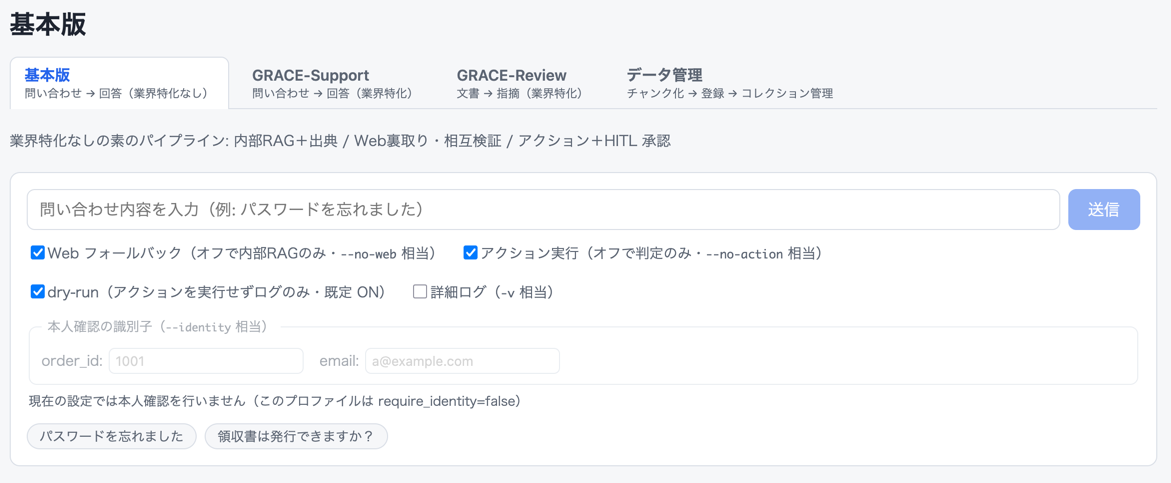
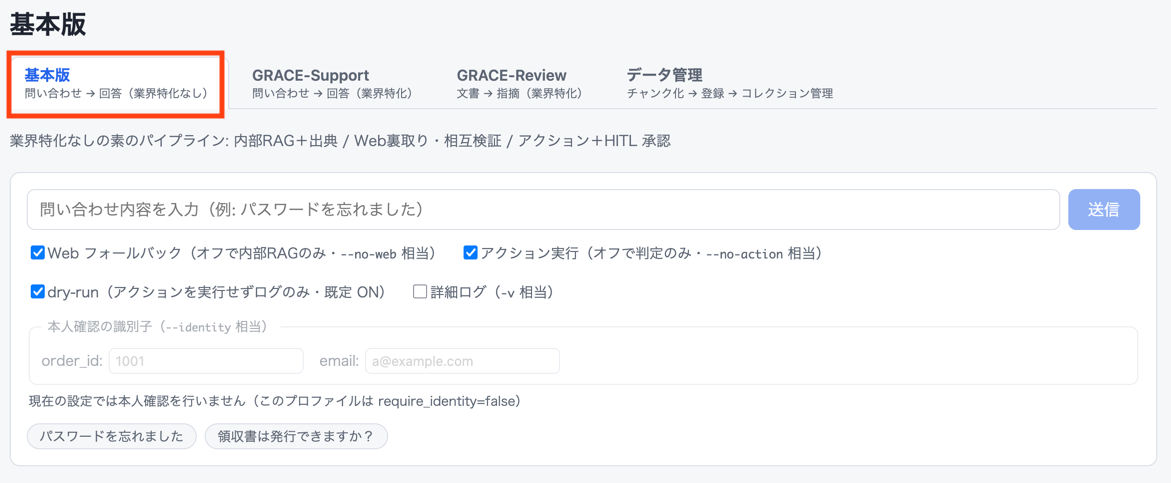
2026-0809-1

Changed region(s): [[0.0, 0.0932, 0.2152, 0.2484]]

diff --git a/frontend/src/components/QueryForm.tsx b/frontend/src/components/QueryForm.tsx
@@ -151,7 +151,7 @@ export function QueryForm({ verticals, running, onSubmit, showVertical = true }:
       </div>
 
       <fieldset className="identity-fields" disabled={running || !requireIdentity}>
-        <legend>本人確認の識別子（<code>--identity</code> 相当）</legend>
+        <legend>本人確認の識別子（<code>--identity</code> 相当）業界プロファイル＝ecの場合・有効</legend>
         <label>
           order_id:
           <input

diff --git a/README.md b/README.md
@@ -1,6 +1,6 @@
 # GRACE アプリ（`./run_dev.sh`）- 画面・操作・プログラム対応 ドキュメント
 
-**Version 2.5** | 最終更新: 2026-08-01
+**Version 2.5** | 最終更新: 2026-08-08
 ![B-01 起動直後（基本版）](docs/images/b-01-basic-initial.png)
 ---
 
@@ -168,7 +168,7 @@ Support の `VerticalProfile` と Review の `RuleSet` は、**9 フィールド
 
 ```markdown
 > 📷 **[X-00] スロット名** — 撮影内容の説明
-> <!-- ![X-00 スロット名](docs/images/x-00-example.png) -->
+![X-00 スロット名](docs/images/x-00-example.png)
 ```
 
 差し替え後（コメントを外した状態）:
@@ -322,7 +322,7 @@ style SCREEN fill:#1a1a1a,stroke:#fff,color:#fff
 > 📷 **[S-01] GRACE-Support タブ 初期表示** — タブを Support に切り替えた直後。
 > B-01 との差分（**業界プロファイル セレクタが増える**・例文チップが 4 つになる）が
 > 分かるように、同じ縮尺で撮影。
-> <!-- ![S-01 Support タブ 初期表示](docs/images/s-01-support-initial.png) -->
+![S-01 Support タブ 初期表示](docs/images/s-01-support-initial.png)
 
 ### 2.1 Review タブの左右ペイン
 
@@ -517,15 +517,15 @@ const TABS = [
 > 開いた状態で、`gov（自治体）` `saas（SaaS）` `ec（EC・本人確認必須）` の 3 件が見えるように撮影。
 > **4 つのトグル（Web フォールバック / アクション実行 / dry-run / 詳細ログ）**も
 > 同じ画面に入るように。
-> <!-- ![S-02 Support 入力フォーム](docs/images/s-02-support-form.png) -->
+![S-02 Support 入力フォーム](docs/images/s-02-support-form.png)
 
 > 📷 **[S-06] 識別子欄の状態（2 枚 1 組）** — §4.2.2 の表の裏付け。
 > **(a)** `ec` **以外**を選んだ状態: 欄が **disabled** で「`gov` は本人確認を行いません
 > （`require_identity=false`）／本人確認を行うプロファイル: `ec`」。
 > **(b)** `ec` ＋ dry-run **ON**: 欄が有効で「dry-run 中はデモ照合のため、入力値は照合に
 > 使われません」。識別子欄と直下の `p.identity-note` が両方入るように拡大して撮影。
-> <!-- ![S-06a 識別子欄 disabled](docs/images/s-06a-identity-disabled.png) -->
-> <!-- ![S-06b 識別子欄 有効](docs/images/s-06b-identity-enabled.png) -->
+![S-06a 識別子欄 disabled](docs/images/s-06a-identity-disabled.png) 
+![S-06b 識別子欄 有効](docs/images/s-06b-identity-enabled.png)
 
 | UI 要素 | 種類 | 既定 | 説明 |
 |---|---|---|---|
